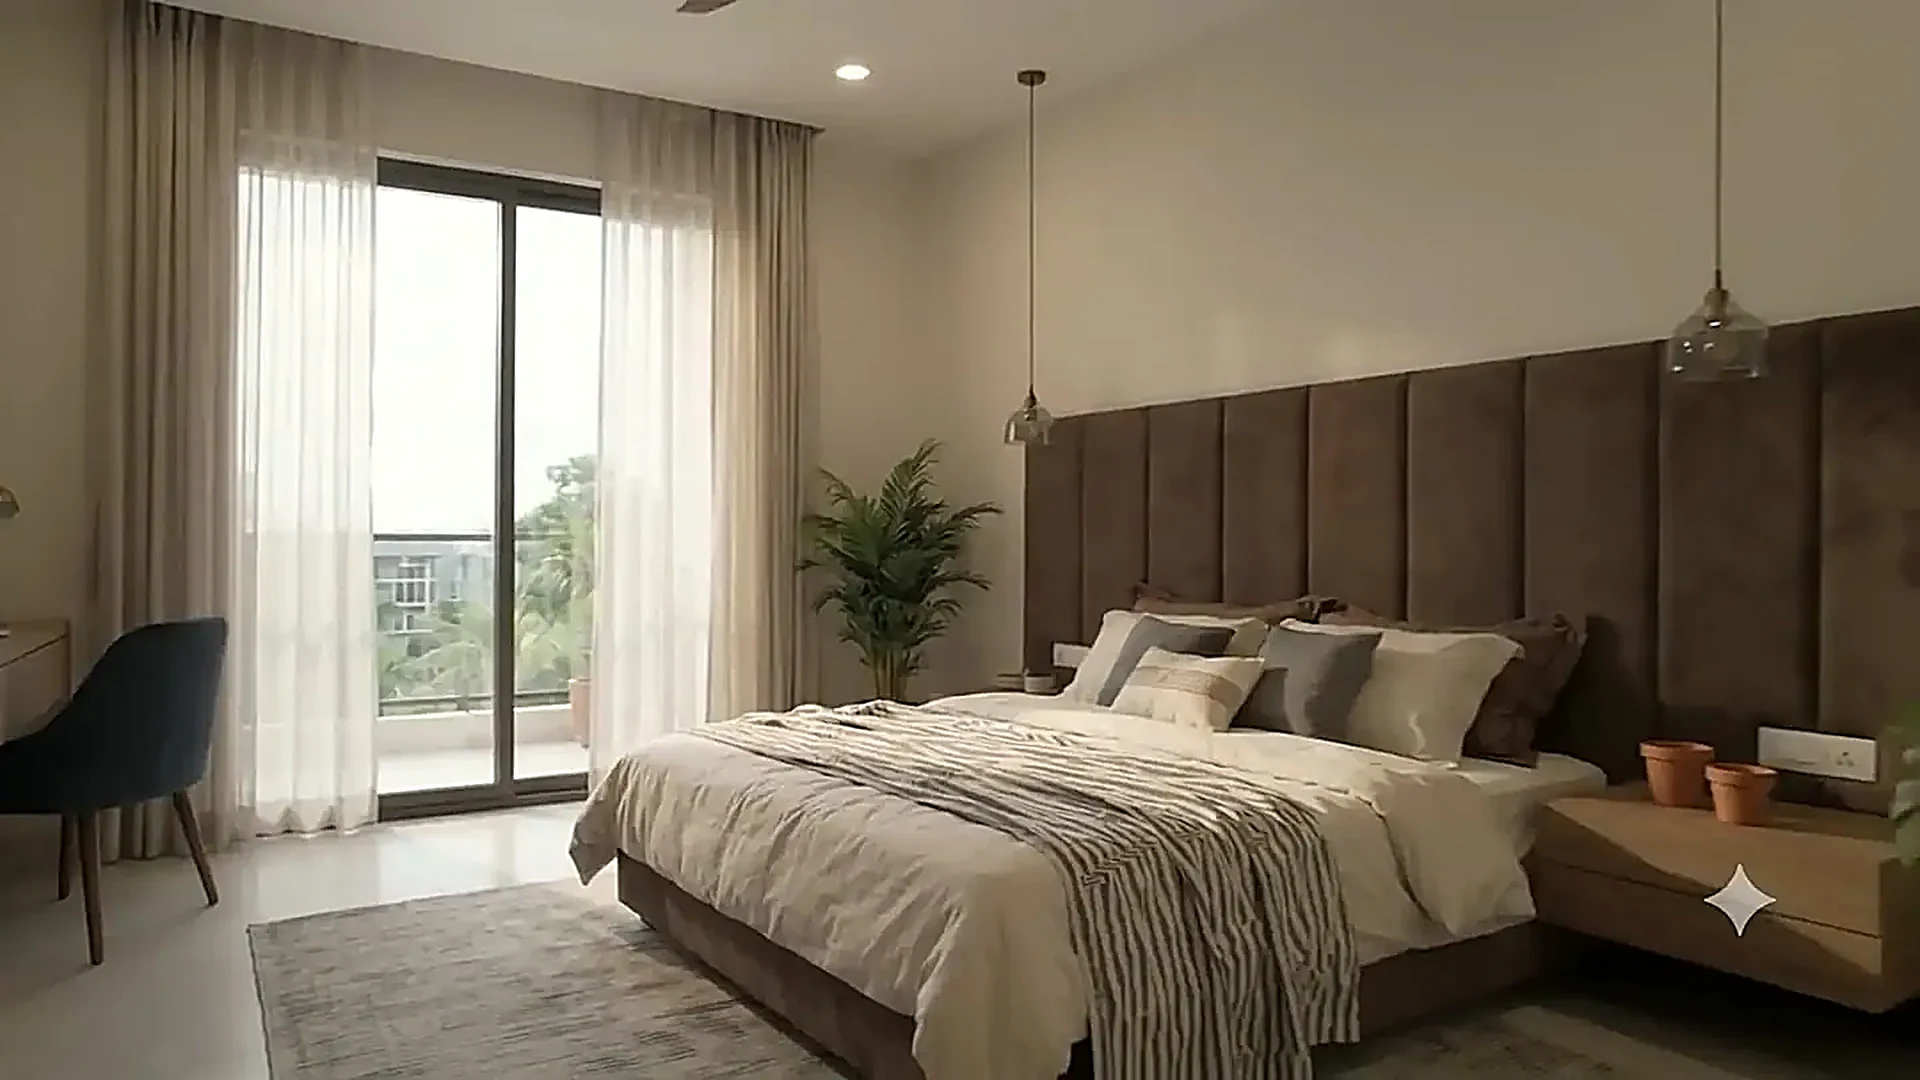
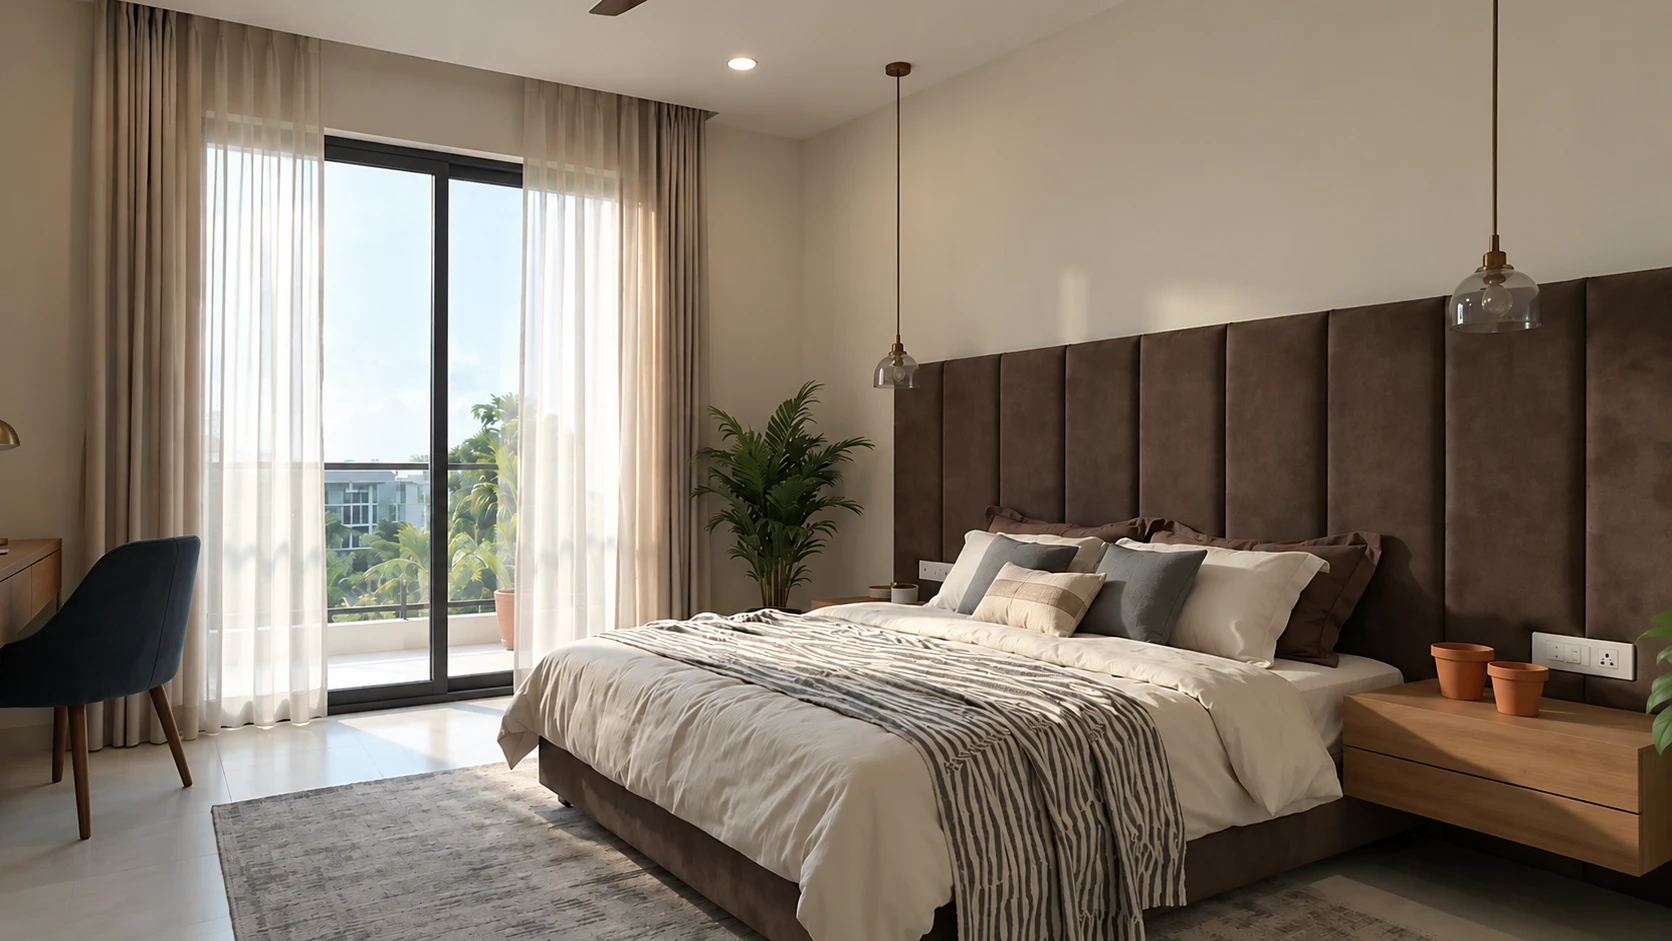
Hero flow: static bedroom poster on load -> clouds -> build sequence
Use the client's bedroom render as the static hero poster shown on load. On
scroll a short cloud transition rolls in and parts, then the frame sequence
plays once (construction -> finished home). Keeps the single headline + its
GSAP reveal and the softened header (no sharp line); cloud phase kept brief so
there's no long white gap.

Claude-Session: https://claude.ai/code/session_019twZsqvuEN13SxKPqo9Kcj

diff --git a/excello-site/js/main.js b/excello-site/js/main.js
@@ -573,12 +573,16 @@
         ctx.stroke();
         ctx.restore();
       }
-      /* Single clean pass: the build plays once, construction (frame 0) -> the
-         finished home (last frame), linearly across the scroll. No teaser, no
-         cloud cover, no repeat. */
+      /* Flow: rest on the static poster (finished home). On scroll the clouds
+         roll in over a short intro (frame held at the construction start behind
+         them), then the build plays once, construction -> finished, across the
+         rest of the scroll. */
       function frameFor(p) {
         var last = count - 1;
-        return Math.round(p * last);
+        if (!isHero) return Math.round(p * last);
+        if (p < 0.14) return 0;                    // held under poster + clouds
+        var t = (p - 0.14) / 0.86; if (t > 1) t = 1;
+        return Math.round(t * last);               // build to finished
       }
       /* Batch paints to one per animation frame: ScrollTrigger's onUpdate can
          fire several times between repaints, so we keep only the latest target
@@ -634,10 +638,26 @@
           progress = self.progress; if (ready) redraw();
           if (mode === "hero") {
             var p = self.progress;
-            /* Single fixed headline; only fade the content out near the very end
-               so the finished home fills the frame before the next section. */
+            /* Static poster (finished home) at rest; fades out as the clouds
+               cover, so the build is revealed behind them. */
+            var poster = scene.querySelector("[data-hero-poster]");
+            if (poster) { var po = p < 0.04 ? 1 : (p > 0.12 ? 0 : 1 - (p - 0.04) / 0.08); gsap.set(poster, { autoAlpha: Math.max(0, Math.min(1, po)) }); }
+            /* Clouds: roll in over the poster, briefly cover, then part to reveal
+               the construction start — kept short so there's no long white gap. */
+            var cl = scene.querySelector("#heroClouds");
+            if (cl) {
+              var co;
+              if (p < 0.02) co = 0;
+              else if (p < 0.07) co = (p - 0.02) / 0.05;   // roll in
+              else if (p < 0.11) co = 1;                    // brief full cover
+              else if (p < 0.18) co = 1 - (p - 0.11) / 0.07; // part to reveal build
+              else co = 0;
+              gsap.set(cl, { opacity: Math.max(0, Math.min(1, co)), scale: 1 + 0.14 * Math.max(0, Math.min(1, co)) });
+            }
+            /* Single fixed headline; fade the content out near the very end so
+               the finished home fills the frame before the next section. */
             var c = scene.querySelector(".hero__content");
-            if (c) { var o = p < 0.78 ? 1 : 1 - (p - 0.78) / 0.22; gsap.set(c, { autoAlpha: Math.max(0, o), y: -40 * Math.max(0, p - 0.6) }); }
+            if (c) { var o = p < 0.8 ? 1 : 1 - (p - 0.8) / 0.2; gsap.set(c, { autoAlpha: Math.max(0, o), y: -40 * Math.max(0, p - 0.62) }); }
           }
         }
       });

diff --git a/excello-site/index.html b/excello-site/index.html
@@ -21,7 +21,13 @@
     <!-- HERO -->
     <section class="hero hero--seq container" data-seq-scene>
       <div class="hero__bg seq" data-seq="img/hero-seq" data-frames="288" data-ext="webp" data-seq-mode="hero" data-seq-end="+=1000%">
+        <img class="hero__poster" data-hero-poster src="img/hero-poster.webp" alt="Excello finished residence interior" width="1672" height="941" fetchpriority="high" decoding="async">
         <canvas class="seq__canvas"></canvas>
+      </div>
+      <div class="hero__clouds" id="heroClouds" aria-hidden="true">
+        <span class="hero__cloud hc1"></span><span class="hero__cloud hc2"></span>
+        <span class="hero__cloud hc3"></span><span class="hero__cloud hc4"></span>
+        <span class="hero__cloud hc5"></span>
       </div>
       <div class="hero__content">
         <p class="label hero__label" data-hero-fade>Boutique Design &amp; Build · Mount Lavinia, Colombo</p>
